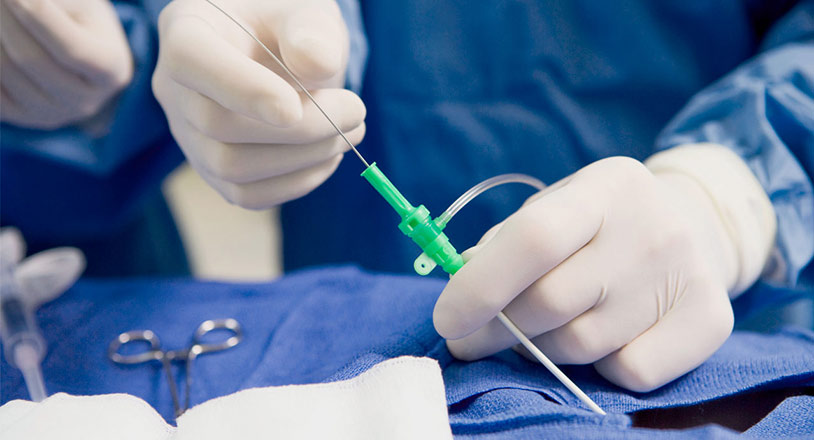
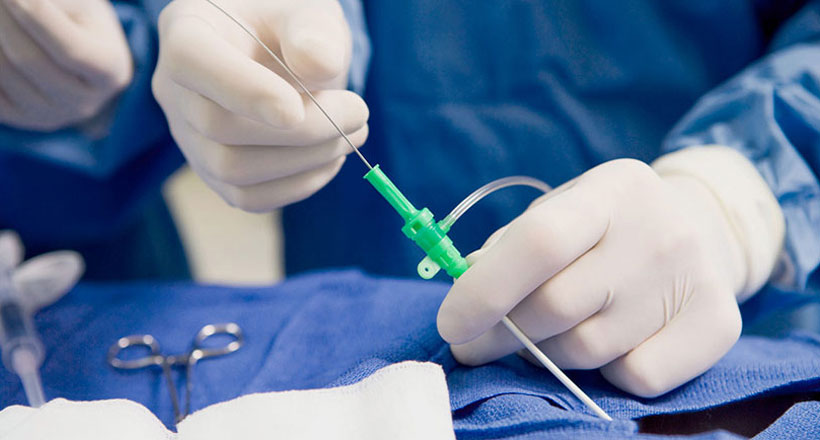
feat: update pages

diff --git a/index.html b/index.html
@@ -206,7 +206,7 @@
             </div>
         </section>
         <section id="leistungen">
-            <div class="container">
+            <div class="container pb-4">
                 <div class="row mt-4">
                     <div class="col-12">
                         <h2>Hugg-Leistungen</h2>
@@ -281,7 +281,6 @@
                     </div>
                 </div>
             </div>
-
             <div class="container mt-5 mw-100 bg-primary">
                 <div class="row">
                     <div class="col">
@@ -292,7 +291,11 @@
                                 </div>
                                 <div class="col-lg-4  d-flex align-items-stretch mt-5">
                                     <div class="card position-relative pb-3 rounded-0 border-0">
-                                        <img src="./assets/images/dk_leistungen_katheter.jpg" class="w-100" alt="Katheterinterventionen">
+                                        <picture>
+                                            <source media="(min-width: 992px)" srcset="./assets/images/dk_leistungen_katheter.jpg">
+                                            <source srcset="./assets/images/dk_leistungen_katheter_sm.jpg">
+                                            <img src="./assets/images/dk_leistungen_katheter_sm.jpg" class="w-100" alt="Katheterinterventionen">
+                                        </picture>
                                         <div class="card-body">
                                             <ul class="list-unstyled"><li><strong>Katheterinterventionen</strong></li></ul>
                                             <p class="mt-4 mb-0">Ich freue mich besonders, Ihnen neben der Diagnostik und konservativen Therapie auch eine ggf. notwendige invasive Therapie anbieten zu können. Hierzu besteht eine Kooperation mit der Klinik für Angiologie des Helios Klini-kums Salzgitter.</p>
@@ -301,7 +304,11 @@
                                 </div>
                                 <div class="col-lg-4 d-flex align-items-stretch mt-5">
                                     <div class="card position-relative pb-3 rounded-0 border-0">
-                                        <img src="./assets/images/dk_leistungen_igel.jpg" class="w-100" alt="IGeL-Leistungen">
+                                        <picture>
+                                            <source media="(min-width: 992px)" srcset="./assets/images/dk_leistungen_igel.jpg">
+                                            <source srcset="./assets/images/dk_leistungen_igel_sm.jpg">
+                                            <img src="./assets/images/dk_leistungen_igel_sm.jpg" class="w-100" alt="IGeL-Leistungen">
+                                        </picture>
                                         <div class="card-body">
                                             <ul class="list-unstyled"><li><strong>IGeL-Leistungen</strong></li></ul>
                                             <p class="mt-4 mb-0">Neben den bekannten kassenärztlichen Leistungen bieten wir auch kardiovas-kuläre Vorsorgeuntersuchungen – ganz individuell nach Ihren Bedürfnissen an.</p>
@@ -310,10 +317,17 @@
                                 </div>
                                 <div class="col-lg-4 d-flex align-items-stretch mt-5">
                                     <div class="card position-relative pb-3 rounded-0 border-0">
-                                        <img src="./assets/images/dk_leistungen_kardio_fit.jpg" class="w-100" alt="Schulung Kardio Fit">
+                                        <div class="position-relative">
+                                            <img src="./assets/images/dk_logo_kardio_fit.png" width="140" height="140" class="logo-kardio-fit" alt="Schulung Kardio Fit">
+                                            <picture>
+                                                <source media="(min-width: 992px)" srcset="./assets/images/dk_leistungen_kardio_fit.jpg">
+                                                <source srcset="./assets/images/dk_leistungen_kardio_fit_sm.jpg">
+                                                <img src="./assets/images/dk_leistungen_kardio_fit_sm.jpg" class="w-100" alt="Schulung Kardio Fit">
+                                            </picture>
+                                        </div>
                                         <div class="card-body ">
                                             <ul class="list-unstyled"><li><strong>Schulung Kardio Fit</strong></li></ul>
-                                            <p class="mt-4">In unserer Praxis bieten wir Ihnen im Rahmen des Disease-Management- Programms (DMP) die zertifizierte Schulung Kardio Fit an. Werden Sie Ihr eigener Herz-Experte.</p>
+                                            <p class="mt-4 mb-4">In unserer Praxis bieten wir Ihnen im Rahmen des Disease-Management- Programms (DMP) die zertifizierte Schulung Kardio Fit an. Werden Sie Ihr eigener Herz-Experte.</p>
                                             <p class="mb-0 text-center"><a href="./kardio-fit.html" class="btn btn-outline-primary">Mehr Infos</a></p>
                                         </div>
                                     </div>
@@ -550,8 +564,8 @@
                                     <h5>Zuweiser</h5>
                                 </div>
                                 <div class="col-lg-3 d-flex flex-column align-items-center mt-5 border-end text-center">
-                                    <img src="./assets/images/icon_kim_telematix.svg" width="70" height="60" alt="Icon KIM Telematix">
-                                    <p class="mt-2 mb-4">Sicherer Datenaustausch über KIM Telematix</p>
+                                    <img src="./assets/images/icon_kim_telematix.svg" width="129" height="60" alt="Icon KIM Telematix">
+                                    <p class="mt-2 mb-4">Sicherer Datenaustausch<br>über KIM Telematix</p>
                                     <p class="mb-0 d-flex flex-grow-1 align-items-center">hugg-praxis.kvn@<br>kv.dox.kim.telematik</p>
                                 </div>
                                 <div class="col-lg-3 d-flex flex-column align-items-center mt-5 text-center">

diff --git a/kardio-fit.html b/kardio-fit.html
@@ -115,22 +115,22 @@
             <div class="container">
                 <div class="row">
                     <div class="col-12 col-lg-3 d-flex justify-content-center align-items-center">
-                        <img src="./assets/images/dk_logo_kardio_fit.jpg" width="113" height="135" class="m-3" alt="Logo Kardio Fit">
+                        <img src="./assets/images/dk_logo_kardio_fit.png" width="215" height="215" class="mx-3" alt="Logo Kardio Fit">
                     </div>
-                    <div class="col-12 col-lg-9">
-                        <p class="mb-0">Wenn sie an einer koronaren Herzerkrankung (KHK) leiden, empfehlen wir Ihnen die Teilnahme am Disease Management Programm (DMP) KHK. Dieses von den gesetzlichen Kassen unterstützte strukturierte Behandlungsprogramm für die KHK-Nachsorge wird Ihre Behandlungsqualität optimieren und nachhaltig sichern. In unserer Praxis bieten wir Ihnen die zertifizierte Schulung Kardio Fit an. Diese unterstützt Sie beim Umgang mit der Erkrankung und wird so Ihre Lebensqualität steigern. Nutzen Sie die Möglichkeit durch unsere speziell geschulten Mitarbeiterinnen Ihr eigener Herzexperte zu werden.</p>
+                    <div class="col-12 col-lg-9 d-flex justify-content-center align-items-center">
+                        <p class="mb-0">In drei Einheiten im Abstand von etwa einer Woche erfahren Sie durch eine speziell ausgebildete Medizinische Fachangestellte alles über die Entstehung von Koronaren Herzerkrankungen, Therapiemöglichkeiten, passende Medikamente und wie Sie durch Ihr eigenes Verhalten die Behandlung unterstützen und Risiken im Alltag minimieren können. Zusätzlich erhalten Sie nützliche Hinweise, Ihre Herzkreislaufrisiko-faktoren zu minimieren.</p>
                     </div>
                 </div>
             </div>
         </section>
         <section id="kardio-fit">
             <div class="container">
-                <div class="row mt-4">
+                <div class="row mt-4 mb-4">
                     <div class="col-12">
                         <h2>Was ist Kardio Fit?</h2>
                     </div>
                 </div>
-                <div class="row mb-5">
+                <div class="row mb-5 pt-3">
                     <div class="col-12 col-lg-6 d-flex align-items-center">
                         <img src="./assets/images/dk_schulung_kardio_fit.jpg"  class="w-100" alt="Schulung Kardio Fit">
                     </div>
@@ -140,7 +140,7 @@
                 </div>
                 <div class="row">
                     <div class="col-lg-4">
-                        <div class="card position-relative my-4 pb-3 rounded-0 border-0 bg-gray">
+                        <div class="card position-relative my-4 rounded-0 border-0 bg-gray">
                             <h5 class="card-header rounded-0">Einheit 1</h5>
                             <div class="card-body p-4">
                                 <p class="mt-2"><strong>Fakten zur KHK:</strong></p>
@@ -158,7 +158,7 @@
                         </div>
                     </div>
                     <div class="col-lg-4">
-                        <div class="card position-relative my-4 pb-3 rounded-0 border-0 bg-gray">
+                        <div class="card position-relative my-4 rounded-0 border-0 bg-gray">
                             <h5 class="card-header rounded-0">Einheit 2</h5>
                             <div class="card-body p-4">
                                 <p class="mt-2"><strong>Sport &amp; Ernährung:</strong></p>
@@ -176,7 +176,7 @@
                         </div>
                     </div>
                     <div class="col-lg-4">
-                        <div class="card position-relative my-4 pb-3 rounded-0 border-0 bg-gray">
+                        <div class="card position-relative my-4 rounded-0 border-0 bg-gray">
                             <h5 class="card-header rounded-0">Einheit 3</h5>
                             <div class="card-body p-4">
                                 <p class="mt-2"><strong>Umgang mit der Krankheit:</strong></p>

diff --git a/assets/styles/custom.css b/assets/styles/custom.css
@@ -173,6 +173,14 @@ small {
 }
 
 .btn-outline-primary {
+    padding-top: 0;
+    padding-bottom: 0;
+    height: 50px;
+    font-size: 15px;
+    line-height: 50px;
+    text-transform: uppercase;
+    letter-spacing: 1px;
+    border-radius: 50px;
     color: #3e668e !important;
     border-color: #3e668e !important;
 }
@@ -870,21 +878,74 @@ div.header-box table > tbody > tr > td:nth-of-type(2) {
     }
 }
 
+#leistungen .logo-kardio-fit {
+    position: absolute;
+    height: 60px;
+    width: 60px;
+    right: 10px;
+    bottom: -30px;
+}
+
+@media only screen and (min-width: 380px) {
+    #leistungen .logo-kardio-fit {
+        height: 110px;
+        width: 110px;
+        right: 15px;
+        bottom: -55px;
+    }
+}
+
+@media only screen and (min-width: 768px) {
+    #leistungen .logo-kardio-fit {
+        height: 140px;
+        width: 140px;
+        right: 20px;
+        bottom: -70px;
+    }
+}
+
+@media only screen and (min-width: 992px) {
+    #leistungen .logo-kardio-fit {
+        height: 80px;
+        width: 80px;
+        right: 10px;
+        bottom: -40px;
+    }
+}
+
+@media only screen and (min-width: 1200px) {
+    #leistungen .logo-kardio-fit {
+        height: 110px;
+        width: 110px;
+        right: 15px;
+        bottom: -55px;
+    }
+}
+
+@media only screen and (min-width: 1400px) {
+    #leistungen .logo-kardio-fit {
+        height: 140px;
+        width: 140px;
+        right: 20px;
+        bottom: -70px;
+    }
+}
+
 #leistungen .container.bg-primary {
     bottom: 0;
-    background: url('../images/dk_leistungen_background.png') bottom center no-repeat;
-    background-size: 75%;
+    background: url('../images/dk_leistungen_background.svg') bottom center no-repeat;
+    background-size: 100%;
 }
 
 @media only screen and (min-width: 768px) {
     #leistungen .container.bg-primary {
-        background-size: 55%;
+        background-size: 80%;
     }
 }
 
 @media only screen and (min-width: 992px) {
     #leistungen .container.bg-primary {
-        background-size: 35%;
+        background-size: 60%;
     }
 }
 
